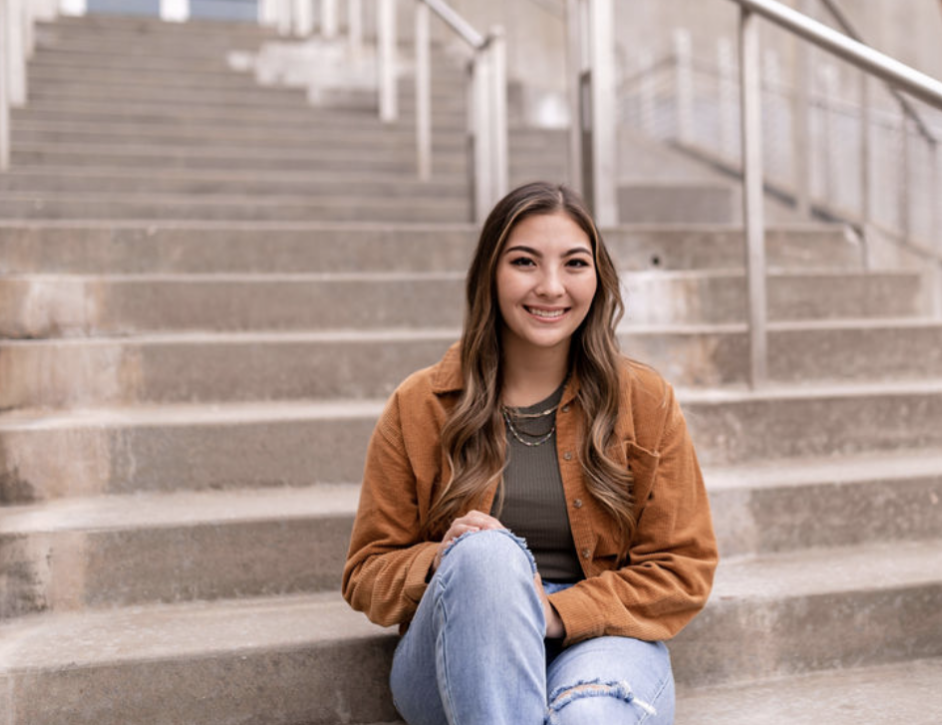
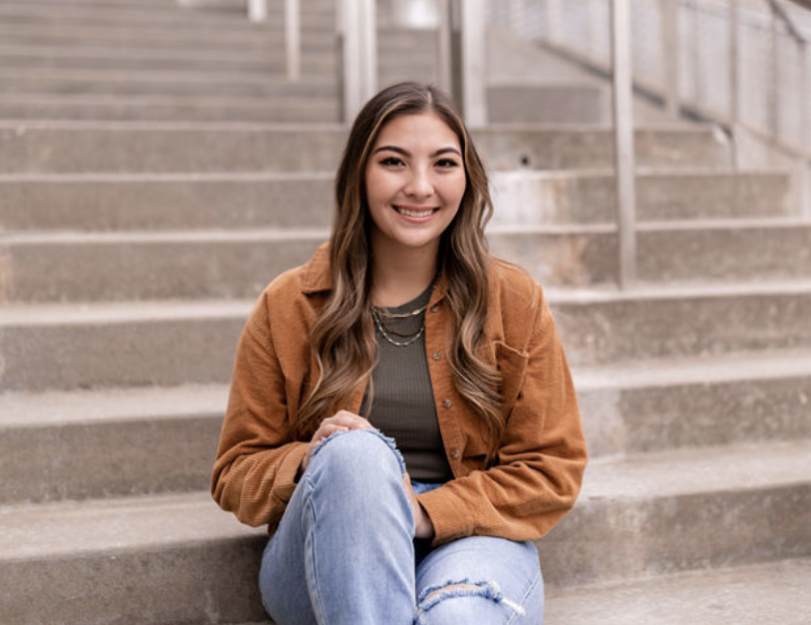
Add contact me background color to margins

diff --git a/index.html b/index.html
@@ -28,7 +28,7 @@
     <div class="contact-me">
         <div class="contact-text">
             <h2>Contact Me</h2>
-            <p>Please reach out to me if I'm a perfect fit for any opportunies you have available!</p>
+            <p>Thanks for viewing my portfolio! Please reach out to me if I'm a perfect fit for any opportunies you have available.</p>
             <div class="contact-info"><img src="images/map-marker-outline.svg" alt="location" class="icon">Fayetteville, AR</div>
             <div class="contact-info"><img src="images/phone-outline.svg" alt="phone" class="icon">479-283-9646</div>
             <div class="contact-info"><img src="images/email-outline.svg" alt="email" class="icon">caylinvu@gmail.com</div>

diff --git a/style.css b/style.css
@@ -75,7 +75,7 @@ h3 {
 }
 
 .about-me > img {
-    max-width: 500px;
+    max-width: 400px;
     border-radius: 5px;
 }
 
@@ -165,7 +165,10 @@ h3 {
     display: flex;
     padding: 50px 0px;
     justify-content: space-between;
-    gap: 30px;
+    gap: 50px;
+    position: relative;
+    box-shadow: 0 0 0 100vmax var(--color3);
+    clip-path: inset(0 -100vmax);
 }
 
 .contact-text > * {
@@ -191,5 +194,6 @@ h3 {
 }
 
 .contact-me > img {
-    max-width: 600px;
+    max-width: 500px;
+    border-radius: 5px;
 }
